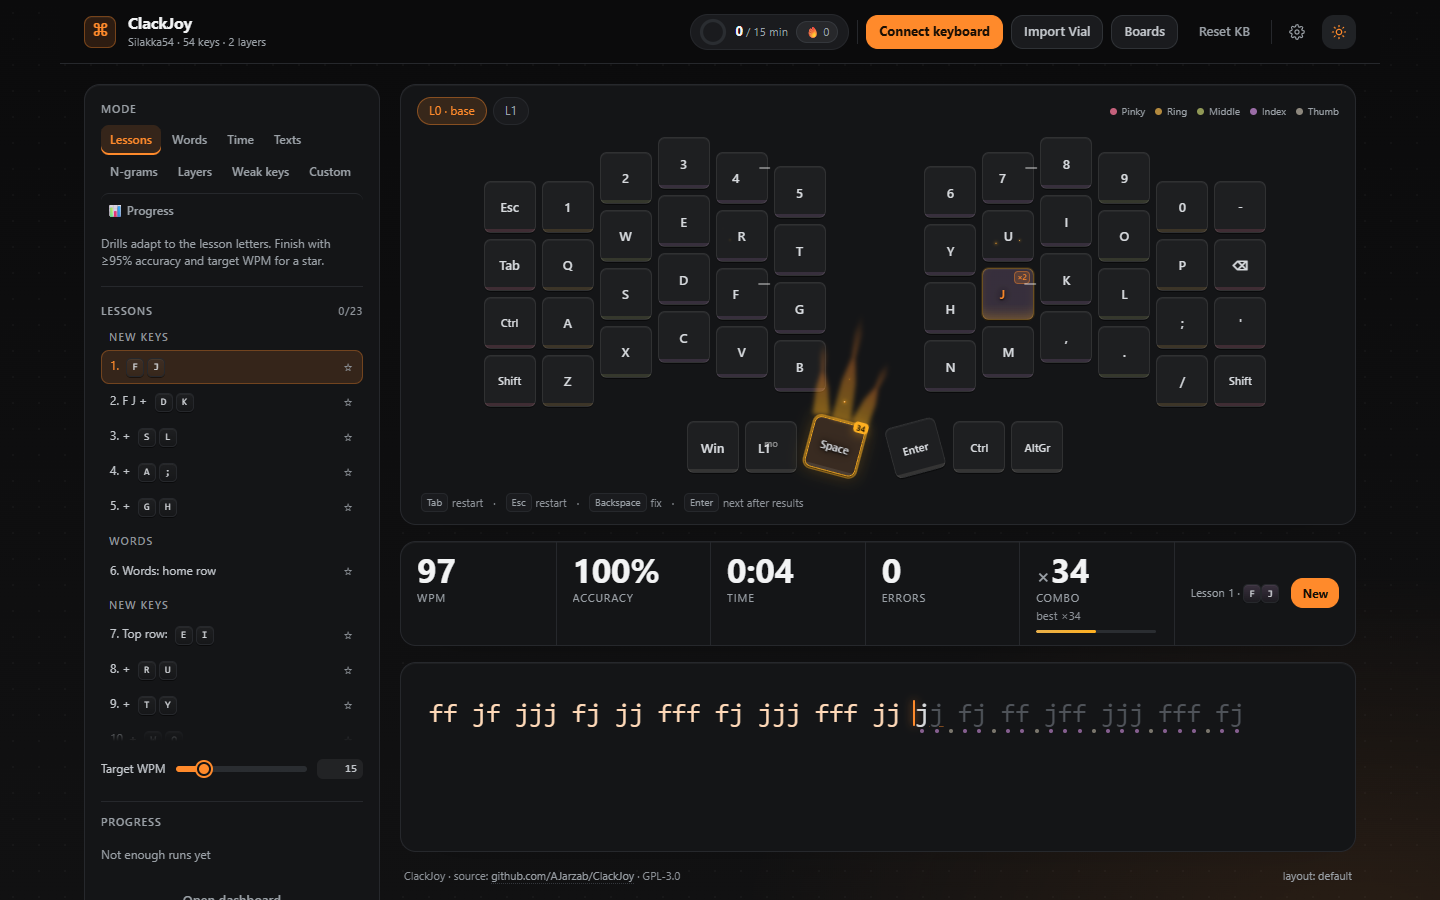
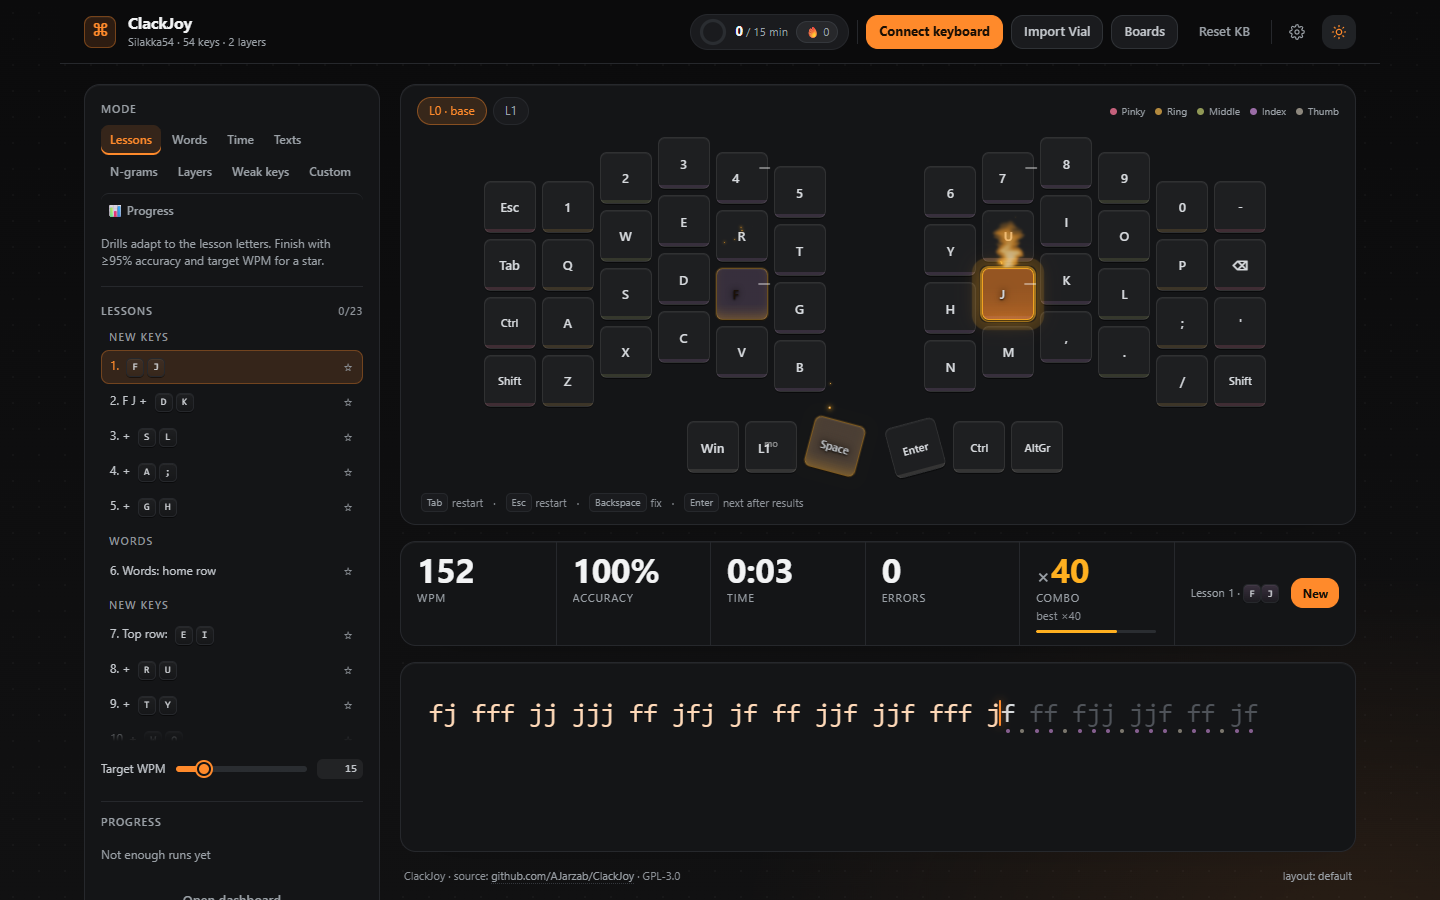
Fix unclosed reduced-motion block (typing card styles), tune flame shape

diff --git a/index.html b/index.html
@@ -892,6 +892,7 @@ textarea::placeholder{color:var(--muted)}
              0 0 22px rgba(var(--accent-rgb),calc(.22 * var(--kb-fade,1)));
 }
 .key.next.next2::after{display:none}
+.key.next.dbl::after{display:none}
 .key.dbl::after{
   content:"×2";position:absolute;top:calc(var(--u)*.03);right:calc(var(--u)*.05);
   font-size:clamp(6px,calc(var(--u)*.14),7.5px);line-height:1.3;font-weight:700;
@@ -1014,7 +1015,7 @@ textarea::placeholder{color:var(--muted)}
 .key .fire .fl1 i{display:none}
 /* inner white-hot core */
 .key .fire .fl1{
-  width:40%;height:calc(52% + 40% * var(--heat));
+  width:34%;height:calc(56% + 34% * var(--heat));
   transform:translateX(-50%) scaleY(calc(.85 + .3 * var(--heat)));
   border-radius:48% 48% 42% 42% / 72% 72% 28% 28%;
   background:radial-gradient(62% 88% at 50% 92%, #fff6d8 0%, #ffd27a 32%, rgba(255,160,40,.85) 58%, rgba(255,120,0,0) 100%);
@@ -1022,7 +1023,7 @@ textarea::placeholder{color:var(--muted)}
 }
 /* main flame body */
 .key .fire .fl2{
-  width:72%;height:calc(88% + 62% * var(--heat));
+  width:66%;height:calc(82% + 46% * var(--heat));
   transform:translateX(-50%);
   border-radius:50% 50% 45% 45% / 70% 70% 30% 30%;
   background:radial-gradient(60% 90% at 50% 94%, #ffc46b 0%, #ff8a2b 38%, rgba(255,90,0,.8) 66%, rgba(255,60,0,0) 100%);
@@ -1031,11 +1032,11 @@ textarea::placeholder{color:var(--muted)}
 }
 /* outer glow */
 .key .fire .fl3{
-  width:110%;height:calc(104% + 70% * var(--heat));
+  width:126%;height:calc(84% + 40% * var(--heat));
   transform:translateX(-50%);
   border-radius:50% 50% 40% 40% / 65% 65% 35% 35%;
   background:radial-gradient(55% 85% at 50% 96%, rgba(255,120,20,.85) 0%, rgba(255,80,0,.45) 45%, rgba(255,60,0,0) 100%);
-  filter:url(#cjFlame) blur(8px);opacity:.8;
+  filter:url(#cjFlame) blur(10px);opacity:.75;
   animation:flameSway 3.4s ease-in-out infinite reverse;
 }
 .key .fire.lv1 .fl2,.key .fire.lv1 .fl3{display:none}
@@ -1158,7 +1159,9 @@ body.combo-blaze::before{
 }
 body.combo-blaze .bg{z-index:-2}
 @media (prefers-reduced-motion: reduce){
-  .key.burst,.key.combo-6,.key.combo-6.burst,
+  .key.burst,.key.combo-6,.key.combo-6.burst,.key .fire{animation:none !important}
+  .key .fire{display:none}
+}
 
 /* ============================================================
    Typing area
@@ -1495,11 +1498,11 @@ body.dragging::after{
 <body>
 <svg class="fxdefs" width="0" height="0" aria-hidden="true" focusable="false"><defs>
   <filter id="cjFlame" x="-70%" y="-70%" width="240%" height="240%" color-interpolation-filters="sRGB">
-    <feTurbulence type="fractalNoise" baseFrequency="0.05 0.09" numOctaves="2" seed="4" result="n">
+    <feTurbulence type="fractalNoise" baseFrequency="0.028 0.07" numOctaves="3" seed="4" result="n">
       <animate attributeName="seed" dur="1.4s" values="4;11;4" repeatCount="indefinite"/>
-      <animate attributeName="baseFrequency" dur="3.2s" values="0.05 0.09;0.062 0.112;0.05 0.09" repeatCount="indefinite"/>
+      <animate attributeName="baseFrequency" dur="3.2s" values="0.028 0.07;0.036 0.085;0.028 0.07" repeatCount="indefinite"/>
     </feTurbulence>
-    <feDisplacementMap in="SourceGraphic" in2="n" scale="12" xChannelSelector="R" yChannelSelector="G"/>
+    <feDisplacementMap in="SourceGraphic" in2="n" scale="26" xChannelSelector="R" yChannelSelector="G"/>
   </filter>
 </defs></svg>
 <div class="bg" aria-hidden="true"></div>
